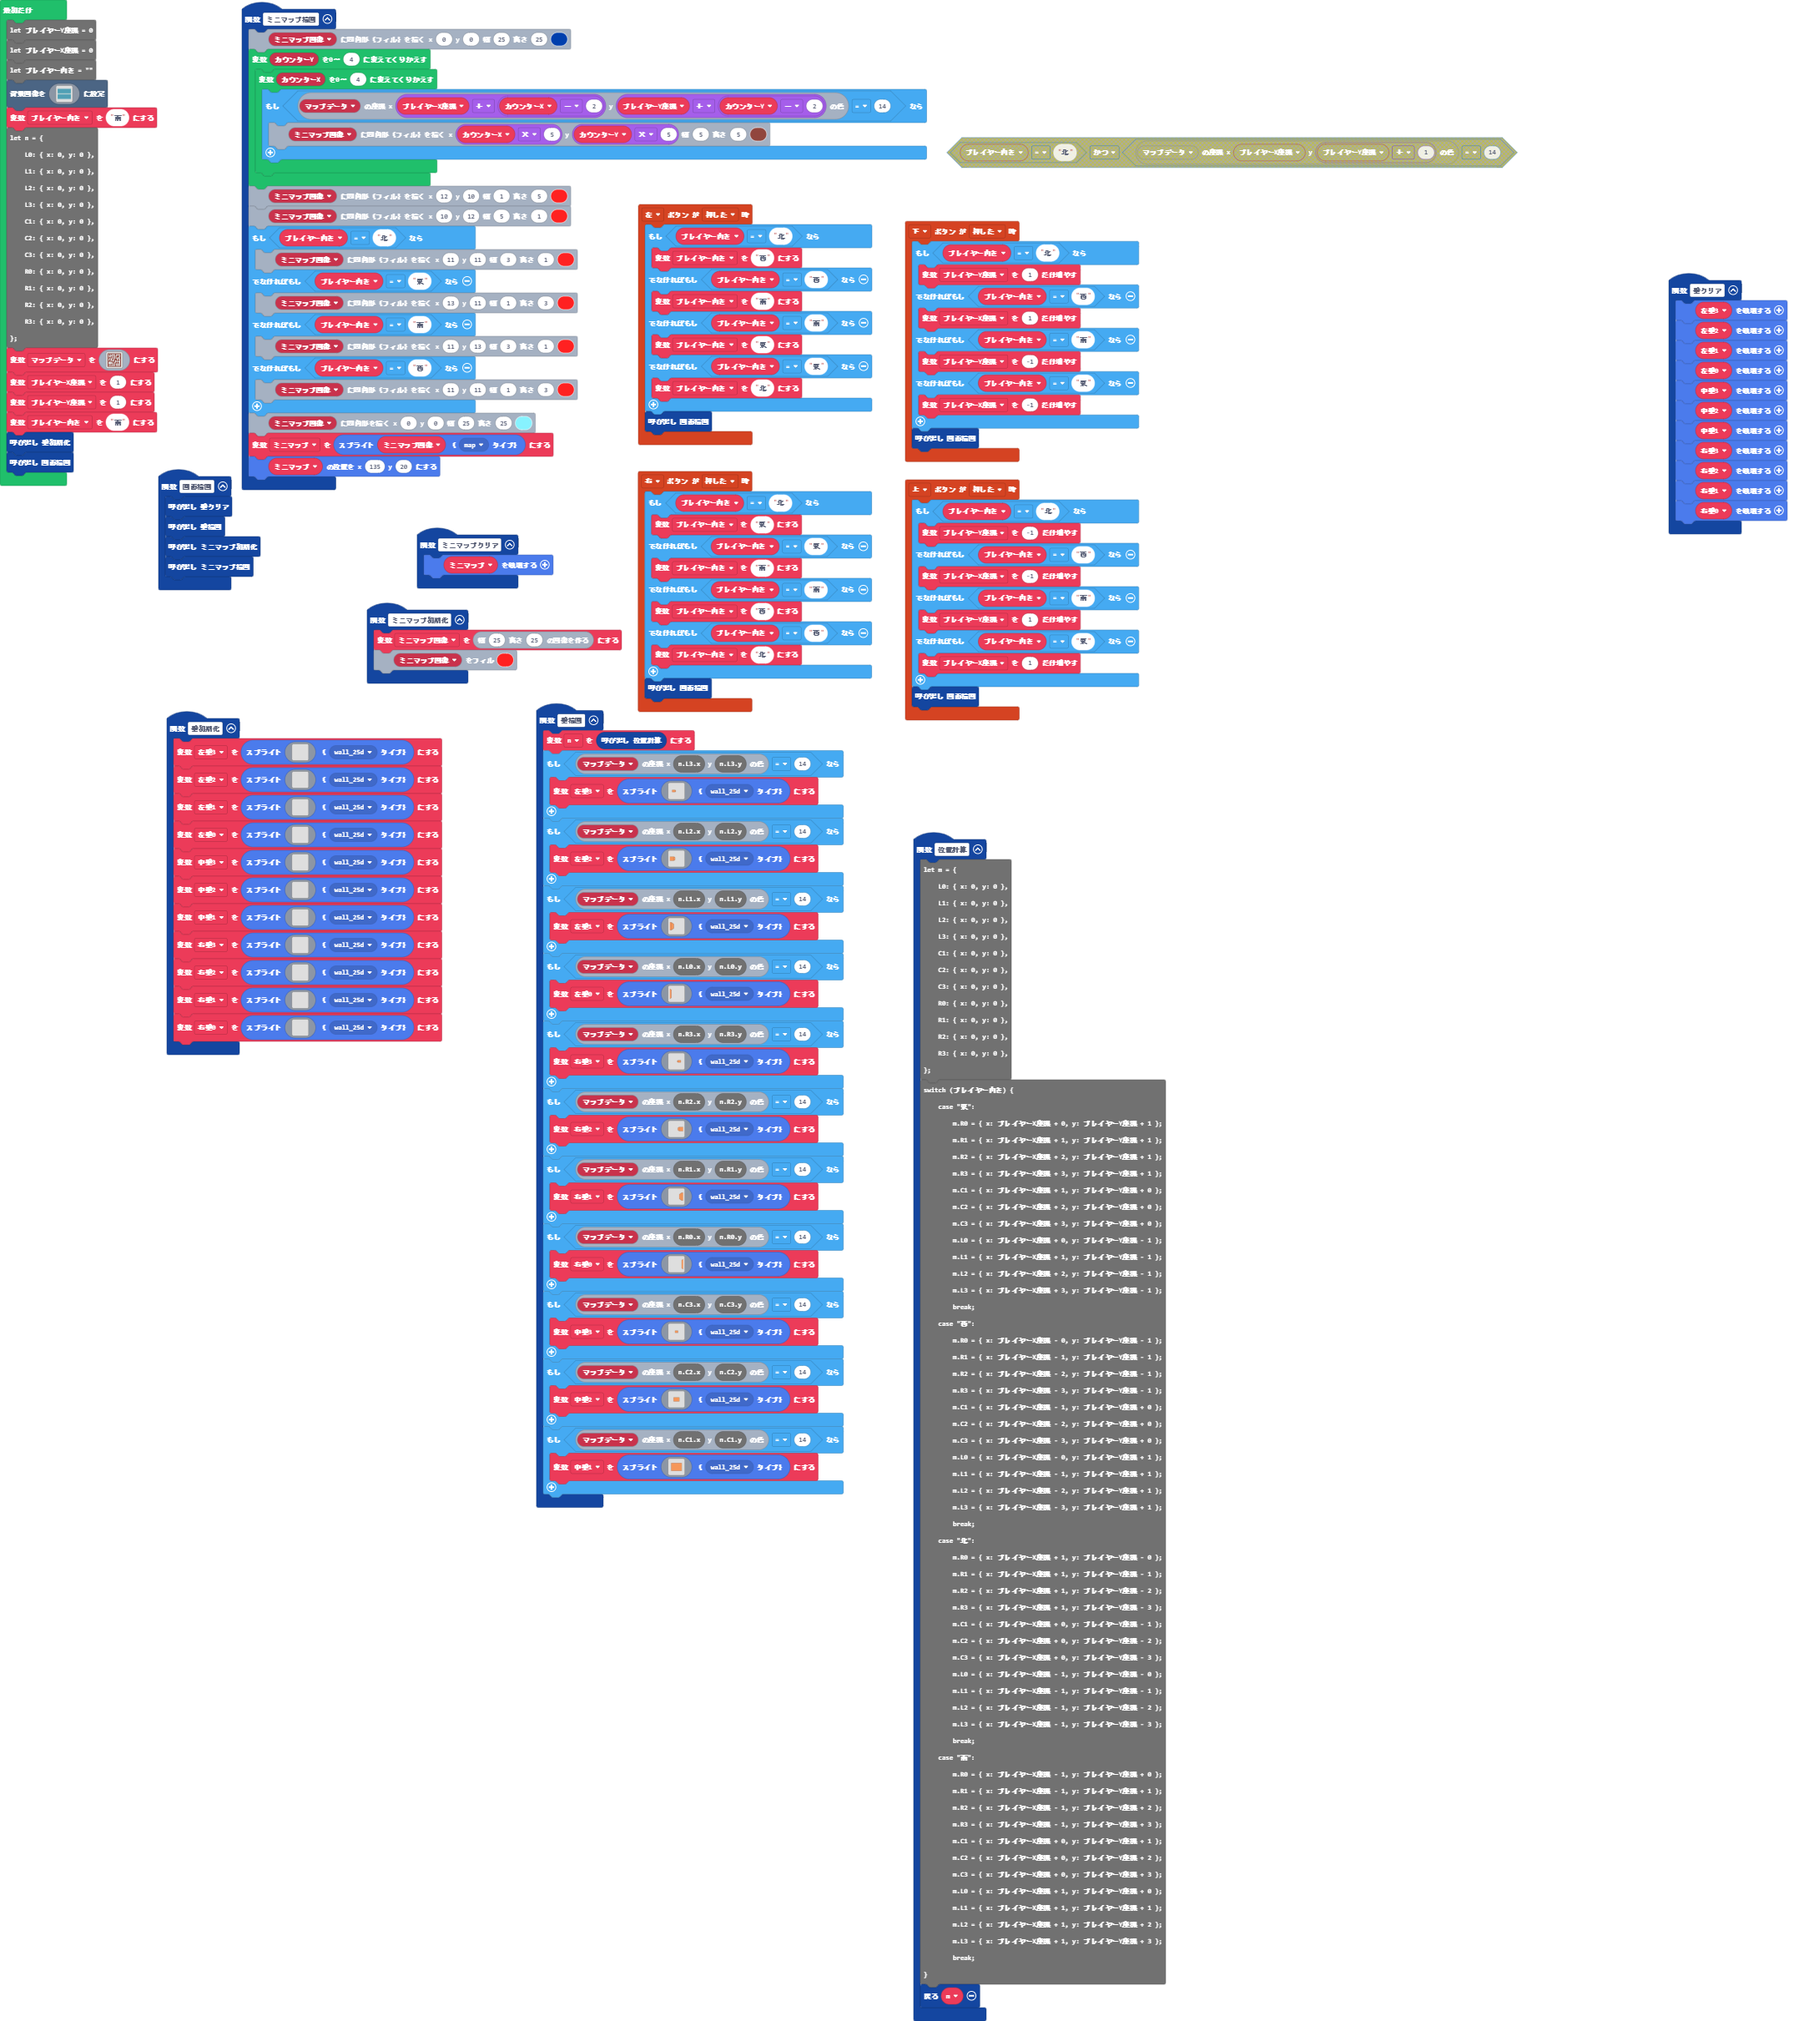
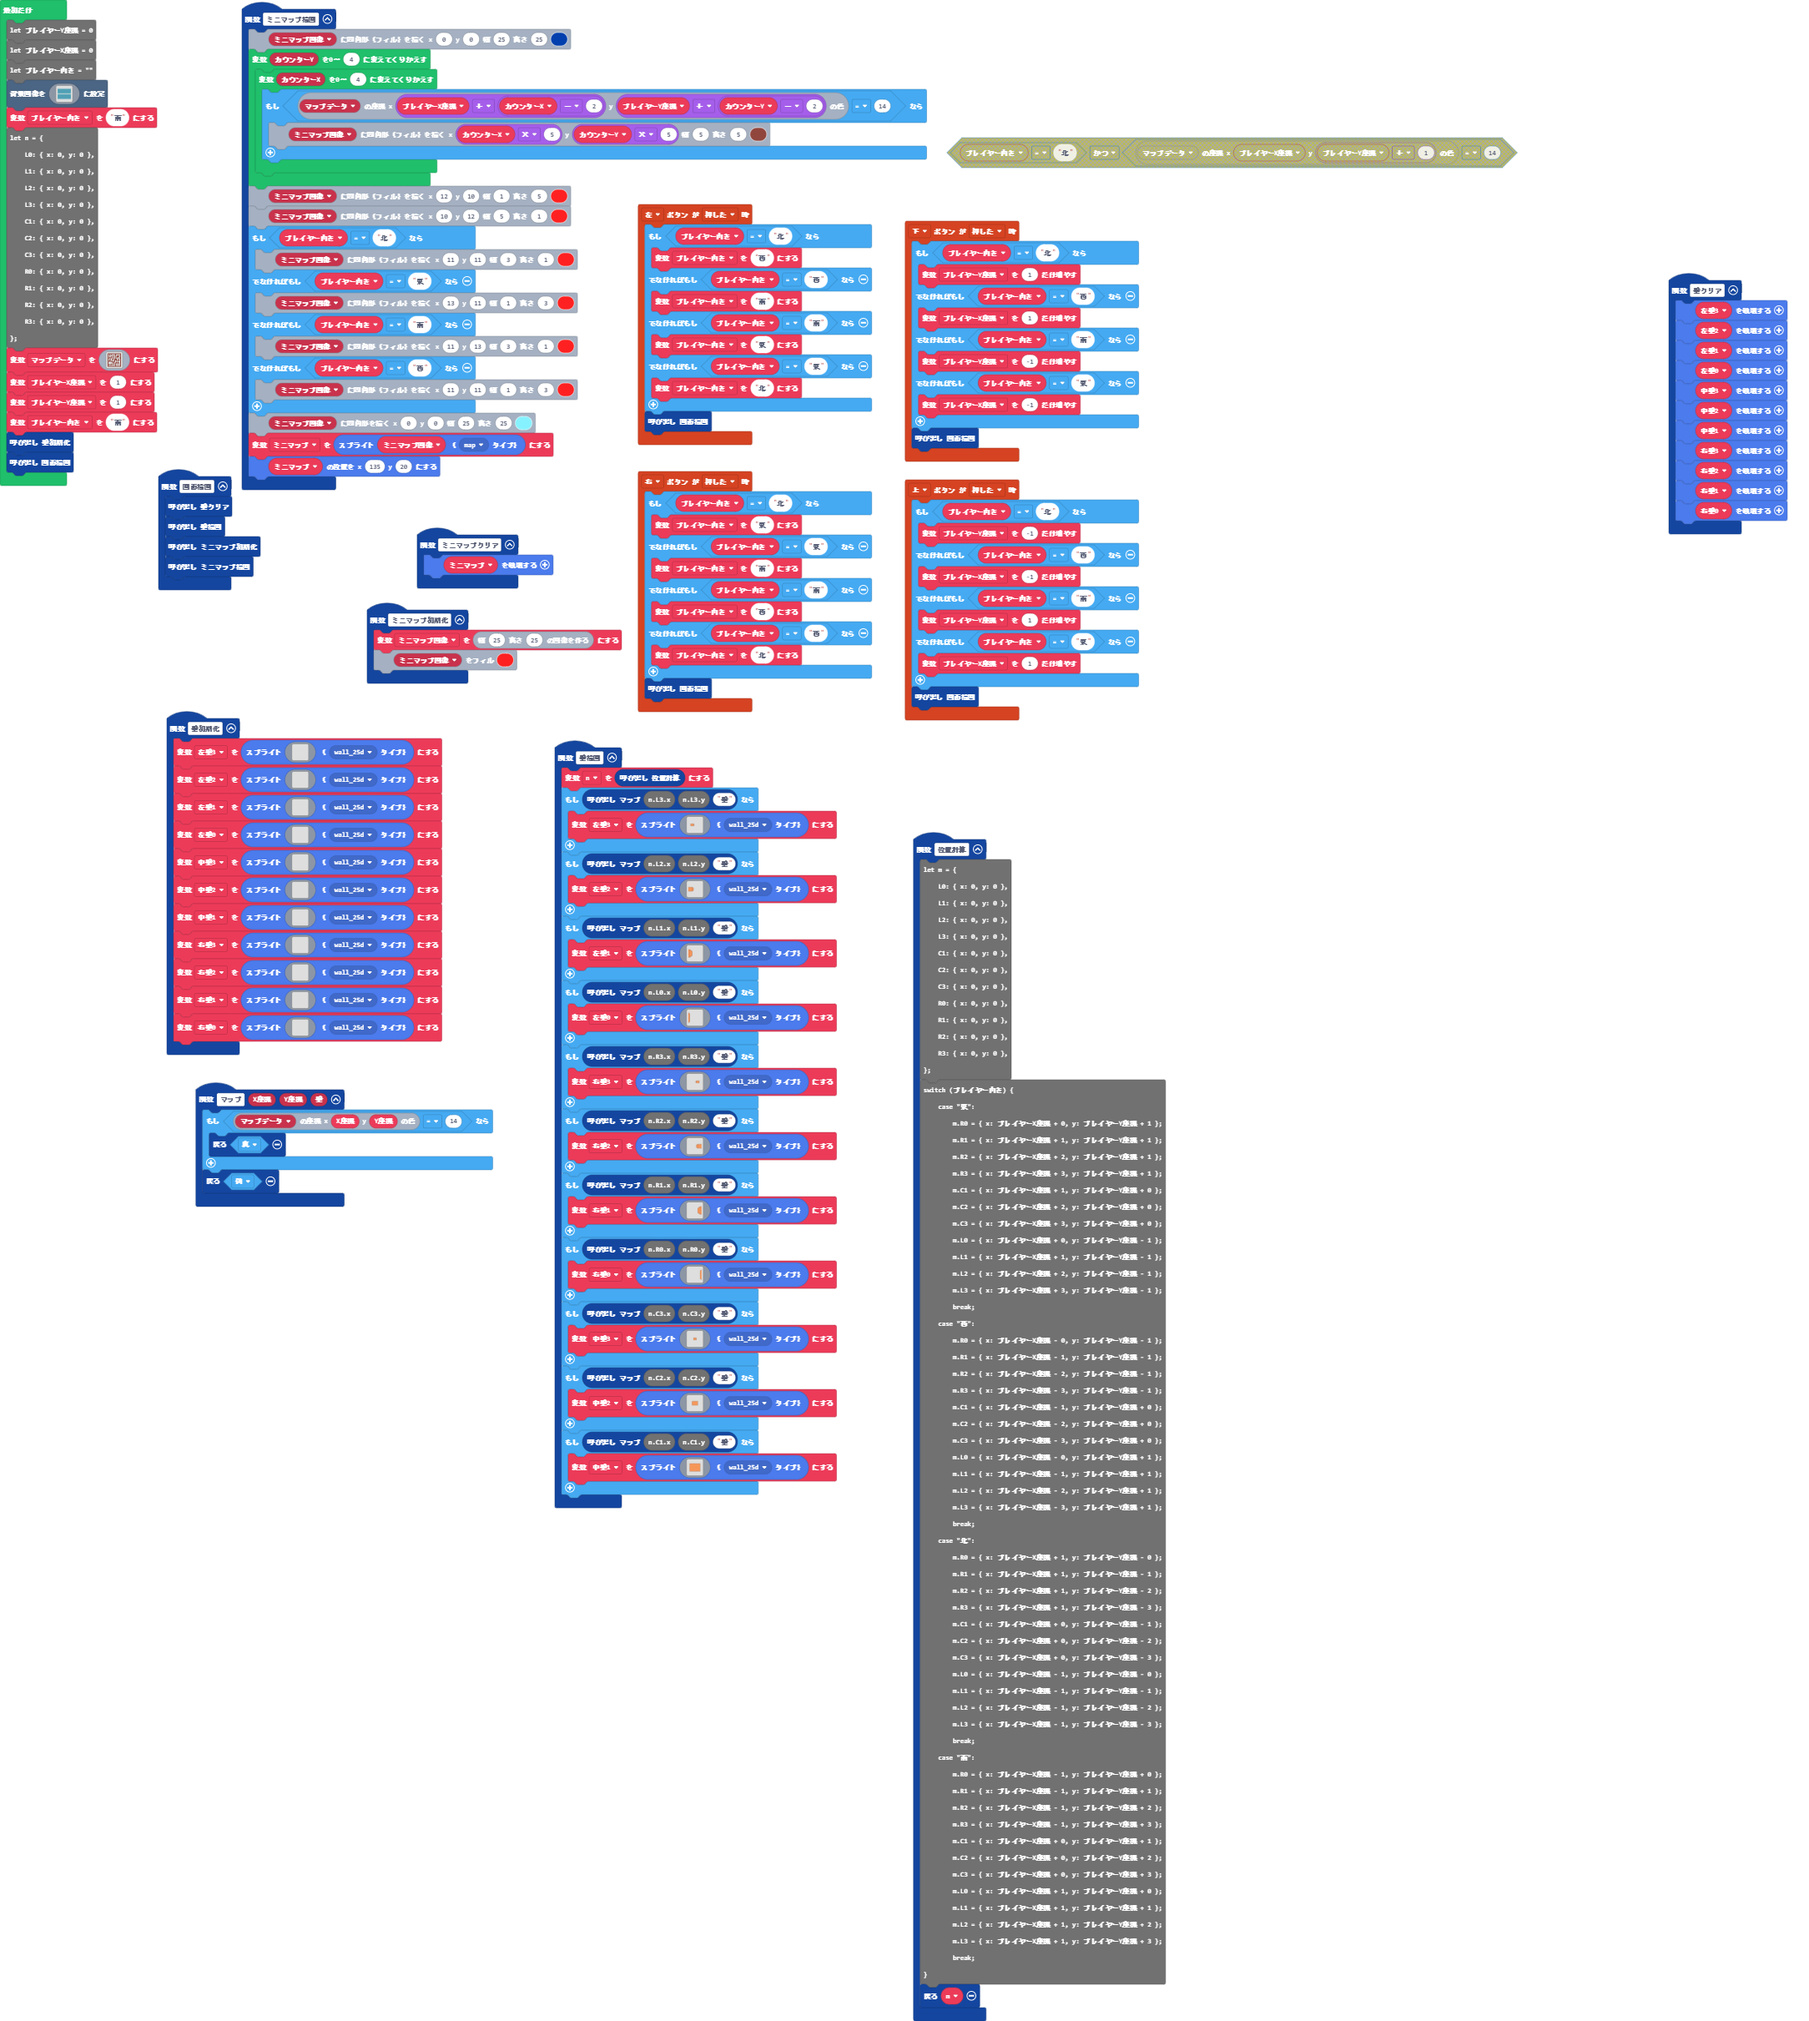
更新 main.blocks, main.ts

Changed region(s): [[0.0927, 0.3406, 0.4636, 0.7432], [0.4945, 0.2477, 0.5872, 0.3406], [0.3708, 0.2787, 0.4018, 0.3097]]

diff --git a/main.ts b/main.ts
@@ -88,6 +88,12 @@ switch (プレイヤー向き) {
 }
 return m
 }
+function マップ (X座標: number, Y座標: number, 壁: string) {
+    if (マップデータ.getPixel(X座標, Y座標) == 14) {
+        return true
+    }
+    return false
+}
 function 壁クリア () {
     左壁3.destroy()
     左壁2.destroy()
@@ -164,37 +170,37 @@ function 壁初期化 () {
 }
 function 壁描画 () {
     n = 位置計算()
-    if (マップデータ.getPixel(n.L3.x, n.L3.y) == 14) {
+    if (マップ(n.L3.x, n.L3.y, "壁")) {
         左壁3 = sprites.create(assets.image`leftWall3`, SpriteKind.wall_25d)
     }
-    if (マップデータ.getPixel(n.L2.x, n.L2.y) == 14) {
+    if (マップ(n.L2.x, n.L2.y, "壁")) {
         左壁2 = sprites.create(assets.image`baseWall0`, SpriteKind.wall_25d)
     }
-    if (マップデータ.getPixel(n.L1.x, n.L1.y) == 14) {
+    if (マップ(n.L1.x, n.L1.y, "壁")) {
         左壁1 = sprites.create(assets.image`leftWall1`, SpriteKind.wall_25d)
     }
-    if (マップデータ.getPixel(n.L0.x, n.L0.y) == 14) {
+    if (マップ(n.L0.x, n.L0.y, "壁")) {
         左壁0 = sprites.create(assets.image`leftWall0`, SpriteKind.wall_25d)
     }
-    if (マップデータ.getPixel(n.R3.x, n.R3.y) == 14) {
+    if (マップ(n.R3.x, n.R3.y, "壁")) {
         右壁3 = sprites.create(assets.image`rightWall3`, SpriteKind.wall_25d)
     }
-    if (マップデータ.getPixel(n.R2.x, n.R2.y) == 14) {
+    if (マップ(n.R2.x, n.R2.y, "壁")) {
         右壁2 = sprites.create(assets.image`rightWall2`, SpriteKind.wall_25d)
     }
-    if (マップデータ.getPixel(n.R1.x, n.R1.y) == 14) {
+    if (マップ(n.R1.x, n.R1.y, "壁")) {
         右壁1 = sprites.create(assets.image`rightWall1`, SpriteKind.wall_25d)
     }
-    if (マップデータ.getPixel(n.R0.x, n.R0.y) == 14) {
+    if (マップ(n.R0.x, n.R0.y, "壁")) {
         右壁0 = sprites.create(assets.image`rightWall0`, SpriteKind.wall_25d)
     }
-    if (マップデータ.getPixel(n.C3.x, n.C3.y) == 14) {
+    if (マップ(n.C3.x, n.C3.y, "壁")) {
         中壁3 = sprites.create(assets.image`centerWall3`, SpriteKind.wall_25d)
     }
-    if (マップデータ.getPixel(n.C2.x, n.C2.y) == 14) {
+    if (マップ(n.C2.x, n.C2.y, "壁")) {
         中壁2 = sprites.create(assets.image`centerWall2`, SpriteKind.wall_25d)
     }
-    if (マップデータ.getPixel(n.C1.x, n.C1.y) == 14) {
+    if (マップ(n.C1.x, n.C1.y, "壁")) {
         中壁1 = sprites.create(assets.image`centerWall1`, SpriteKind.wall_25d)
     }
 }
